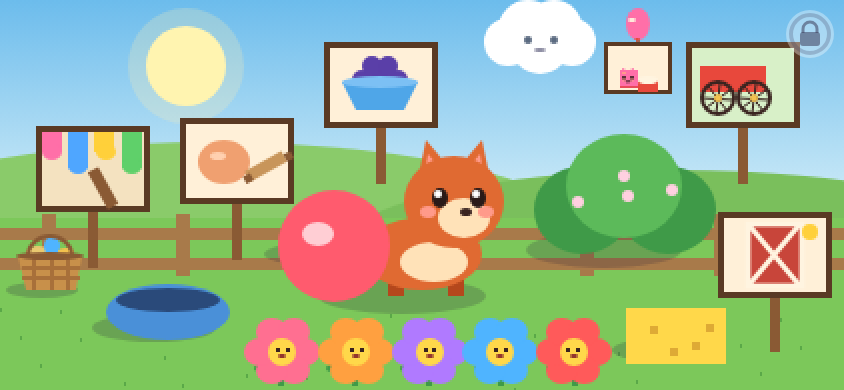
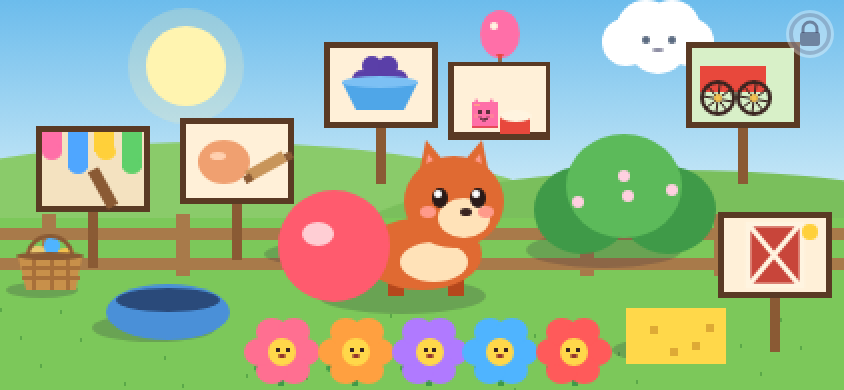
LR-TOYS-POLISH: grow the pack sign by moving the cloud aside.
Full size is tried first. Wide screens land at 0.85 and 0.9, the iPad at 0.8, and the phone stays full size. Every sampled tap on the board still opens the pack.

Changed region(s): [[0.5237, 0.0, 0.8626, 0.3692], [0.8318, 0.2462, 0.9242, 0.2769]]

diff --git a/games/little-ranch/game.js b/games/little-ranch/game.js
@@ -195,7 +195,7 @@
       L.dough = { lr, cr, ty: H * .5, lump: { x: W * .42, y: H * .66 }, cutter: { x: W * .8, y: H * .64 }, barn: L.shed.barn,
         dr: Math.min(W * .09, H * .1), dots: (wide ? [.27, .47, .67, .87] : [.2, .4, .6, .8]).map(f => ({ x: W * f, y: H * .5 * .55 })) }; } // LR-POLISH: the four colour dots are pots now
     const placeKey = W + 'x' + H + 'x' + S, placed = placeCache[placeKey];
-      if (placed) { L.item = { ...placed.item }; L.puddles = placed.puddles.map(q => ({ ...q })); L.psign = { ...placed.psign }; } else { // LR-G2: two spots chosen on the grid: the bedtime bubble (clear of the hat basket and the bowl) and the two puddles
+      if (placed) { L.item = { ...placed.item }; L.puddles = placed.puddles.map(q => ({ ...q })); L.psign = { ...placed.psign }; if (placed.cloud) { L.cloud.x = placed.cloud.x; L.cloud.y = placed.cloud.y; } } else { // LR-G2: two spots chosen on the grid: the bedtime bubble (clear of the hat basket and the bowl) and the two puddles
       // (clear of the ball, the bush, the basket, the bowl and the sponge). The old spot is the preferred one and is kept
       // when it is already clear. Nothing here is saved; the chosen spots are only remembered in memory, per screen size.
       const sw = L.R * .8, B = L.basket, bb = L.bush, kids = [-1, 1].map(k => ballSpot(k)), bodyY = L.home.y - L.size * .9;
@@ -233,7 +233,7 @@
         L.puddles = [got[0] || left, got[1] || right]; }
       L.psign = packSignSpot();
       if (Object.keys(placeCache).length > 120) for (const k in placeCache) delete placeCache[k];
-      placeCache[placeKey] = { item: { ...L.item }, puddles: L.puddles.map(q => ({ ...q })), psign: { ...L.psign } }; }
+      placeCache[placeKey] = { item: { ...L.item }, puddles: L.puddles.map(q => ({ ...q })), psign: { ...L.psign }, cloud: { x: L.cloud.x, y: L.cloud.y } }; }
     layToys();
     if (st && old.U && (W !== oldW || H !== oldH)) {
       // Keep progress between the same places, rather than keeping obsolete canvas pixels.
@@ -299,18 +299,55 @@
         if (meadow.some(p => overlap(b, p) || overlap(balloon, p) || overlap(string, p))) continue;
         if ([b, balloon, string].some(box2 => overlap(box2, faceBox) || overlap(box2, bodyBox) || overlap(box2, rainBox))) continue;
         if (five.some(n => overlap(balloon, box(L[n], 1, 'board')) || overlap(balloon, box(L[n], 1, 'post')) || overlap(string, box(L[n], 1, 'board')))) continue;
+        if (!ownsBoard(q, s)) continue;
         const weather = Math.hypot(f.x - sun.x, f.y - sun.y) < sun.r + R * s * .35 || Math.hypot(f.x - L.cloud.x, f.y - L.cloud.y) < L.cloud.r + R * s * .35;
         const c = (y > L.ground ? 70 : 0) + (weather ? 80 : 0) + (s < 1 ? 8 : 0) + Math.abs(x - W * .58) * .15 + y * .04;
         if (c < cost) { cost = c; best = { x, y, s }; }
       }
       return best;
     };
-    // A tall screen's older check wants the full face gap even when the sign itself is smaller, so try that gap at each size before a wide screen is allowed closer.
-    const tall = H >= W * 1.25;
-    const placed = tall
-      ? search(1, 2.5) || search(.72, 2.5) || search(.6, 2.5) || search(.48, 2.5) || search(.4, 2.5) || search(.34, 2.5) || search(.28, 2.5)
-      : search(1, 2.5) || search(1, 1.5) || search(.72, 1.5) || search(.6, 1.4) || search(.6, 1.2) || search(.48, 1.05) || search(.4, .9) || search(.34, .75);
-    return placed || skySign(tall ? 2.5 : 1.4);
+    // Every painted point of the board has to open the pack, and the sun and the cloud keep their own middles.
+    function ownsBoard(q, s) {
+      const rs = R * s * .95, reach = R * 1.25 * s, br = R * .95;
+      const spots = [['psign', q.x, q.y - R * s * .45, reach, q.x, q.y, rs],
+        ...five.map(n => { const b = L[n]; return [n, b.x, b.y - R * .45, R * 1.25, b.x, b.y, br]; }),
+        ['sun', sun.x, sun.y, sun.r], ['cloud', L.cloud.x, L.cloud.y, L.cloud.r * 1.35],
+        ['bush', L.bush.x, L.bush.y - R * .4, R * 1.4], ['bowl', L.bowl.x, L.bowl.y, R * 1.2],
+        ['basket', L.basket.x, L.basket.y - R * .15, R * 1.05], ['baby', L.home.x, L.home.y - L.size * .9, L.size * 1.2],
+        ['sponge', L.sponge.x, L.sponge.y, R * 1.1],
+        ...L.flowers.map((fl, i) => ['flower' + i, fl.x, fl.y, fl.r * 1.15]),
+        ...L.puddles.map((p, i) => ['puddle' + i, p.x, p.y, p.r]),
+        ...[-1, 1].map(k => { const b = ballSpot(k); return ['ball', b.x, b.y, b.r * 1.2]; })];
+      const winner = (x, y) => {
+        let best = null, bk = 1;
+        for (const row of spots) {
+          let k = Math.hypot(x - row[1], y - row[2]) / row[3];
+          if (row.length > 4 && Math.abs(x - row[4]) <= row[6] * .95 && y >= row[5] - row[6] * 1.17 && y <= row[5] + row[6] * .27) k *= .4;
+          if (k <= bk) { bk = k; best = row[0]; }
+        }
+        return best;
+      };
+      for (let i = 0; i <= 18; i++) for (let j = 0; j <= 14; j++) {
+        if (winner(q.x - rs * .95 + i * rs * 1.9 / 18, q.y - rs * 1.17 + j * rs * 1.44 / 14) !== 'psign') return false;
+      }
+      return winner(L.cloud.x, L.cloud.y) === 'cloud' && winner(sun.x, sun.y) === 'sun';
+    }
+    // Full size first. Slide the cloud aside (still clear of the sun) before easing the face gap. Shrink only when a large sign will not fit, and not below 0.72 while any large spot remains.
+    const tall = H >= W * 1.25, homeX = L.cloud.x, homeY = L.cloud.y, cr0 = L.cloud.r;
+    const cloudOk = x => x - cr0 * 1.3 >= 1 && x + cr0 * 1.3 <= W - 1 && Math.hypot(x - sun.x, homeY - sun.y) >= cr0 * 1.3 + L.U * .13;
+    const cloudXs = [homeX, W * .78, W * .88, W * .5, W * .42, W * .3, W * .2, W * .12].filter((x, i, all) => cloudOk(x) && all.findIndex(v => Math.abs(v - x) < .5) === i);
+    const placeAt = scales => {
+      const muls = tall ? [2.5, 2, 1.8] : [2.5, 1.5, 1.4];
+      for (const s of scales) for (const mul of muls) for (const x of cloudXs) {
+        L.cloud.x = x; L.cloud.y = homeY;
+        const hit = search(s, mul);
+        if (hit) return hit;
+      }
+      return null;
+    };
+    const placed = placeAt([1, .9, .85, .8, .78, .75, .72]) || placeAt([.6, .55, .48, .4, .34, .28]);
+    if (!placed) { L.cloud.x = homeX; L.cloud.y = homeY; }
+    return placed || skySign(tall ? 1.8 : 1.4);
     function skySign(minMul) {
       const s = .28, rs = R * s * .95, br = rs * .42, y = fence - rs * .27 - 2;
       const cloud = L.cloud, cr = cloud.r;

diff --git a/tests/little-ranch.html b/tests/little-ranch.html
@@ -912,8 +912,8 @@ document.querySelector('#run').onclick = async () => {
         const tall = height >= width * 1.25;
         const body = { x0: Ls.home.x - Ls.size * 1.05, x1: Ls.home.x + Ls.size * 1.15, y0: Ls.home.y - Ls.size * 1.7, y1: Ls.home.y };
         const head = { x: Ls.home.x + Ls.size * .55, y: Ls.home.y - Ls.size * 1.3 };
-        const gapOk = tall ? min >= r * 2.5 - 1e-6 : min >= r * 1.4 - 1e-6;
-        check(`${width}×${height}: the toy-pack sign keeps its distance from the five signs, misses their boards, the baby, the bedtime bubble and the puddles, and each sign is still its own tap`, Ls.psign && gapOk && !drawn && !boxesHit(board('psign'), body) && bubbleGap >= 0 && puddleGap >= 0 && LR.ranchTarget(face('psign')) === 'psign' && LR.ranchTarget(head) === 'baby' && fiveSame);
+        const gapOk = tall ? min >= r * 1.8 - 1e-6 : min >= r * 1.4 - 1e-6;
+        check(`${width}×${height}: the toy-pack sign keeps its distance from the five signs (${(min / r).toFixed(2)} R), misses their boards, the baby, the bedtime bubble and the puddles, and each sign is still its own tap`, Ls.psign && gapOk && !drawn && !boxesHit(board('psign'), body) && bubbleGap >= 0 && puddleGap >= 0 && LR.ranchTarget(face('psign')) === 'psign' && LR.ranchTarget(head) === 'baby' && fiveSame);
       }
       frame.style.width = '375px'; frame.style.height = '812px'; await sleep(150); LR.newVisit(); LR.advance(.1);
       const card = id => L().pack.cards.find(c => c.id === id);
@@ -1011,6 +1011,12 @@ document.querySelector('#run').onclick = async () => {
             { x0: Ls.basket.x - Ls.basket.r, x1: Ls.basket.x + Ls.basket.r, y0: Ls.basket.y - Ls.basket.r, y1: Ls.basket.y + Ls.basket.r }, ...ballRest(Ls), ...Ls.flowers.map(fl => circ(fl.x, fl.y, fl.r))];
           const label = `${width}×${height}${dpr > 1 ? ' at DPR ' + dpr : ''}`;
           check(`${label}: the pack sign stays 6 px clear of the wagon sign, off the cloud's face and out of the rain, and the board and balloon stay above the fence and off the meadow`, rectGap(pb, boardOf('wsign')) >= 6 && !overlap(pb, faceBox) && !overlap(pb, rainBox) && !overlap(balloon, faceBox) && !overlap(balloon, rainBox) && balloon.y0 >= 0 && balloon.x0 >= 0 && balloon.x1 <= cv.width && pb.y1 <= fence - 1 && balloon.y1 <= fence && meadow.every(p => !overlap(pb, p) && !overlap(balloon, p)) && LR.ranchTarget(faceOf('psign')) === 'psign');
+          const signScale = Ls.psign.s || 1, rsNow = Ls.R * .95 * signScale, rsFull = Ls.R * .95;
+          const cssW = rsNow * 1.9 * LR.scale, cssH = rsNow * 1.44 * LR.scale, fullArea = rsFull * 1.9 * LR.scale * rsFull * 1.44 * LR.scale;
+          const areaDrop = 1 - (cssW * cssH) / fullArea;
+          let boardTaps = 0, boardOk = 0;
+          for (let i = 0; i <= 18; i++) for (let j = 0; j <= 14; j++) { boardTaps++; if (LR.ranchTarget({ x: Ls.psign.x - rsNow * .95 + i * rsNow * 1.9 / 18, y: Ls.psign.y - rsNow * 1.17 + j * rsNow * 1.44 / 14 }) === 'psign') boardOk++; }
+          check(`${label}: the pack sign stays at least 0.72 scale (${signScale}) and its tap is ${Math.round(cssW)}×${Math.round(cssH)} CSS px, with no big drop from a full-size sign (${Math.round(areaDrop * 100)}% smaller) and ${boardOk} of ${boardTaps} board taps`, signScale >= .72 && Math.min(cssW, cssH) >= 44 && areaDrop <= 1 - .72 * .72 + 1e-9 && boardOk === boardTaps);
         }
       } finally { restoreDpr(); }
       frame.style.width = '844px'; frame.style.height = '390px'; await sleep(150); LR.newVisit(); LR.advance(.1);

diff --git a/docs/playtests/lr-toys-polish/after/README.md b/docs/playtests/lr-toys-polish/after/README.md
@@ -1,6 +1,6 @@
 # After LR-TOYS-POLISH
 
-Captured in headless Chrome from the follow-up that answers the art director's three notes. Each picture is the whole game window. The pack sign hangs in the sky, balloon included, above the fence and clear of the bowl, the ball, the sponge and the other meadow toys. Block Tower's 12-block picture still shares one camera. The 20-tap picture keeps tapping until the stack will not take another block: 14 blocks at 1280×800 and 844×390, 18 on the iPad, and 27 on the phone. The top stays on screen and about half a block of blue floor stays visible. Barn Band has all three players warmed up, so the idle glow sits on the music stand. The shed is the unpainted fox outline.
+Captured in headless Chrome from the follow-up that answers the art director's three notes. Each picture is the whole game window. The pack sign hangs in the sky, large again, balloon included, above the fence and clear of the bowl, the ball, the sponge and the other meadow toys. The cloud has moved aside to leave that room. Block Tower's 12-block picture still shares one camera. The 20-tap picture keeps tapping until the stack will not take another block: 14 blocks at 1280×800 and 844×390, 18 on the iPad, and 27 on the phone. The top stays on screen and about half a block of blue floor stays visible. Barn Band has all three players warmed up, so the idle glow sits on the music stand. The shed is the unpainted fox outline.
 
 | Size | Pack sign | Block Tower, 12 blocks | Block Tower, 20 taps | Barn Band | Paint shed |
 |---|---|---|---|---|---|
